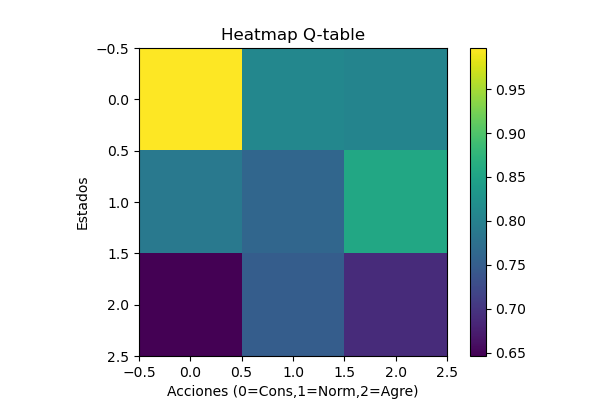
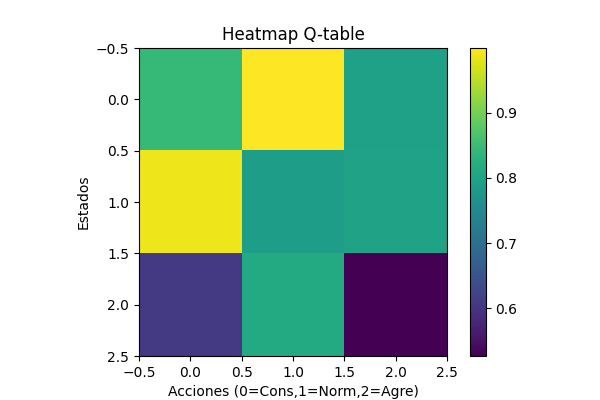
Add Final Race Points based Reward, gitignore, and requirements.txt

diff --git a/f1_env/environment.py b/f1_env/environment.py
@@ -19,6 +19,13 @@ class F1NorrisEnv:
     def reset(self):
         self.state = random.choice([0, 1, 2])
         return self.state
+    
+    def _get_finish_sample(self, dist):
+        # Extraer positions (population) y probabilidades (weights)
+        positions = [item[0] for item in dist]
+        weights = [item[1] for item in dist]
+        
+        return random.choices(positions, weights=weights, k=1)[0]
 
 
     def sample_finish_norris(self, state, action):
@@ -44,13 +51,14 @@ class F1NorrisEnv:
             else:
                 dist = [(1, 0.25), (2, 0.20), (3, 0.20), (5, 0.15), (20, 0.20)]
 
-        r = random.random()
-        acum = 0
-        for pos, p in dist:
-            acum += p
-            if r <= acum:
-                return pos
-        return dist[-1][0]
+        #r = random.random()
+        #acum = 0
+        #for pos, p in dist:
+        #    acum += p
+        #    if r <= acum:
+        #        return pos
+        #return dist[-1][0]
+        return self._get_finish_sample(dist)
 
     def sample_finish_rival(self, driver_name):
         if driver_name == "Verstappen":
@@ -58,13 +66,14 @@ class F1NorrisEnv:
         else:
             dist = [(1, 0.30), (2, 0.25), (3, 0.20), (4, 0.10), (5, 0.10), (10, 0.05)]
 
-        r = random.random()
-        acum = 0
-        for pos, p in dist:
-            acum += p
-            if r <= acum:
-                return pos
-        return dist[-1][0]
+        #r = random.random()
+        #acum = 0
+        #for pos, p in dist:
+        #    acum += p
+        #    if r <= acum:
+        #        return pos
+        #return dist[-1][0]
+        return self._get_finish_sample(dist)
 
     def points_for_position(self, pos):
         return self.points_table.get(pos, 0)
@@ -76,15 +85,33 @@ class F1NorrisEnv:
         pos_v = self.sample_finish_rival("Verstappen")
         pos_p = self.sample_finish_rival("Piastri")
 
-        pts_n = self.base_points["Norris"] + self.points_for_position(pos_n)
-        pts_v = self.base_points["Verstappen"] + self.points_for_position(pos_v)
-        pts_p = self.base_points["Piastri"] + self.points_for_position(pos_p)
+        # Puntos ganados en la carrera.
+        pts_n_carrera = self.points_for_position(pos_n)
+        pts_v_carrera = self.points_for_position(pos_v)
+        pts_p_carrera = self.points_for_position(pos_p)
 
+        # ------------------------------------------------------------------------------------------------------------------------------
+        # ESTRATEGIA CORTO PLAZO: MAXIMIZAR LA CARRERA.
+        #max_carrera = max(pts_n_carrera, pts_v_carrera, pts_p_carrera)
+        #reward = 1 if (pts_n_carrera == max_carrera and pts_n_carrera > pts_v_carrera and pts_n_carrera > pts_p_carrera) else 0
+        #--------------------------------------------------------------------------------------------------------------------------------
+
+        # TOTAL FINAL del Campeonato.
+        pts_n = self.base_points["Norris"] + pts_n_carrera
+        pts_v = self.base_points["Verstappen"] + pts_v_carrera
+        pts_p = self.base_points["Piastri"] + pts_p_carrera
+
+
+        #ESTRATEGIA LARGO PLAZO: ASEGURAR EL CAMPEONATO.
         max_pts = max(pts_n, pts_v, pts_p)
-
+        # Global. Puntos iniciales y puntos ganados.
         reward = 1 if (pts_n == max_pts and pts_n > pts_v and pts_n > pts_p) else 0
 
-        return None, reward, True, {
+        next_state = state
+        done = True
+
+        # LARGO PLAZO
+        return next_state, reward, done, {
             "pos_norris": pos_n,
             "pos_ver": pos_v,
             "pos_pias": pos_p,
@@ -92,3 +119,13 @@ class F1NorrisEnv:
             "pts_ver": pts_v,
             "pts_pias": pts_p,
         }
+
+
+        #return next_state, reward, done, {
+        #    "pos_norris": pos_n,
+        #    "pos_ver": pos_v,
+        #    "pos_pias": pos_p,
+        #    "pts_norris": pts_n_carrera,
+        #    "pts_ver": pts_v_carrera,
+        #    "pts_pias": pts_p_carrera,
+        #}

diff --git a/agent/q_learning.py b/agent/q_learning.py
@@ -28,12 +28,17 @@ def train_q_learning(env, episodes=10000,
             action = int(np.argmax(Q[state]))
 
         next_state, reward, done, info = env.step(action)
-        rewards_log.append(reward)
 
-        target = reward  
+        # Target: Recompensa inmediata + (Gamma * Valor futuro máximo)
+        target = reward
+
+        # Actualización de la Q-Table
         Q[state, action] += alpha * (target - Q[state, action])
 
+        # Decaimiento de Epsilon
         epsilon = max(epsilon_end, epsilon - eps_decay)
+
+        rewards_log.append(reward)
         
         # Imprimir progreso cada cierto número de episodios
         if (ep + 1) % 500 == 0:

diff --git a/main.py b/main.py
@@ -22,7 +22,7 @@ if __name__ == "__main__":
     # Descomentar para ejecutar la simulación animada de la carrera
 
     print("Iniciando simulación animada de carrera...")
-    sim = F1RaceSim(env, Q, episodes=150)
+    sim = F1RaceSim(env, Q, episodes=500)
     sim.run()
     
     print("Entrenamiento completado. Gráficas guardadas en /results")
